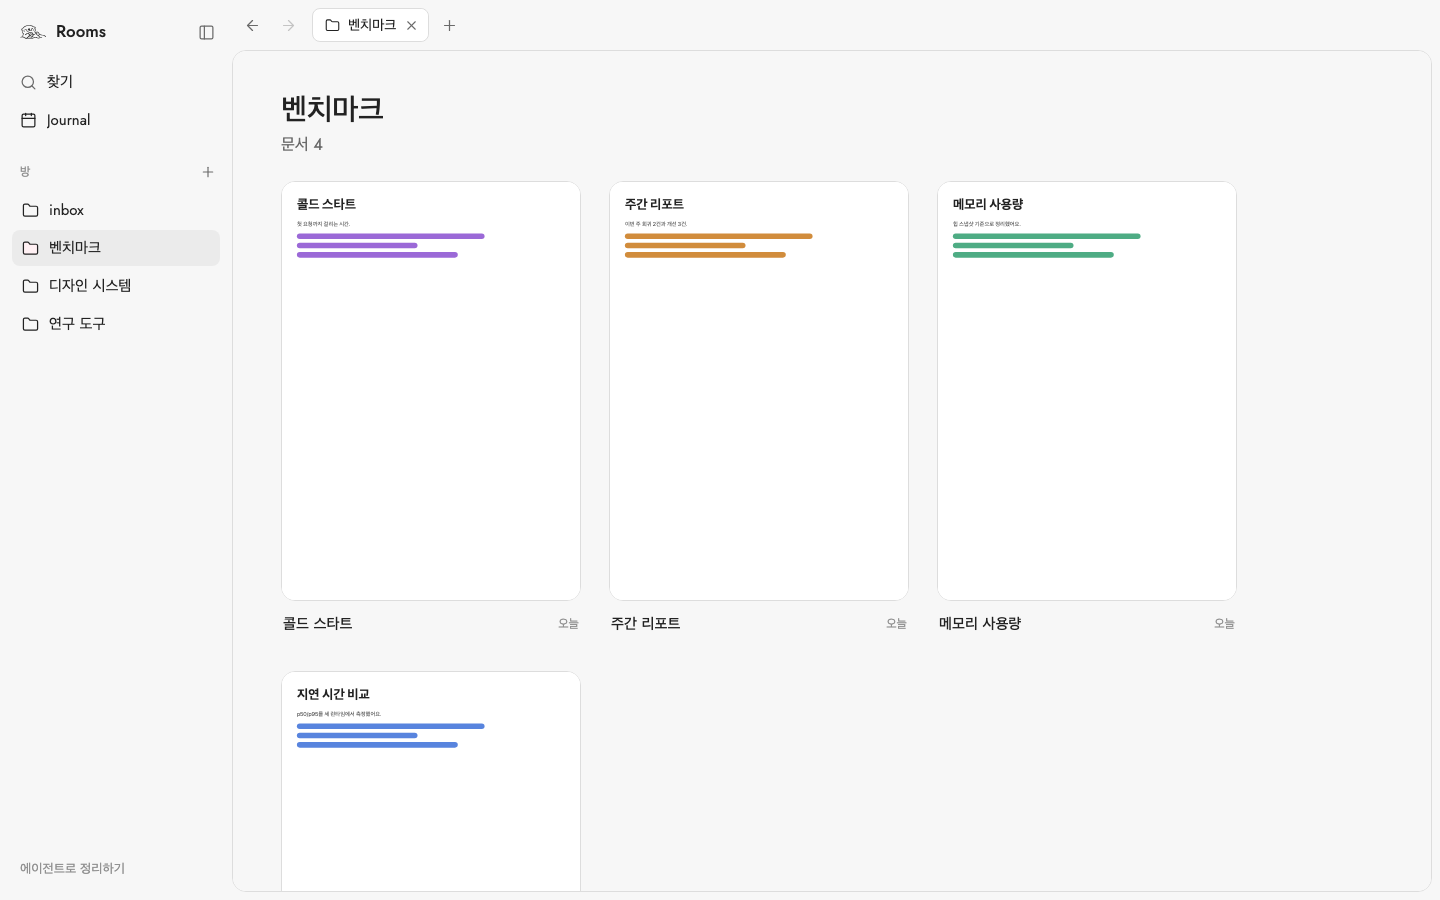
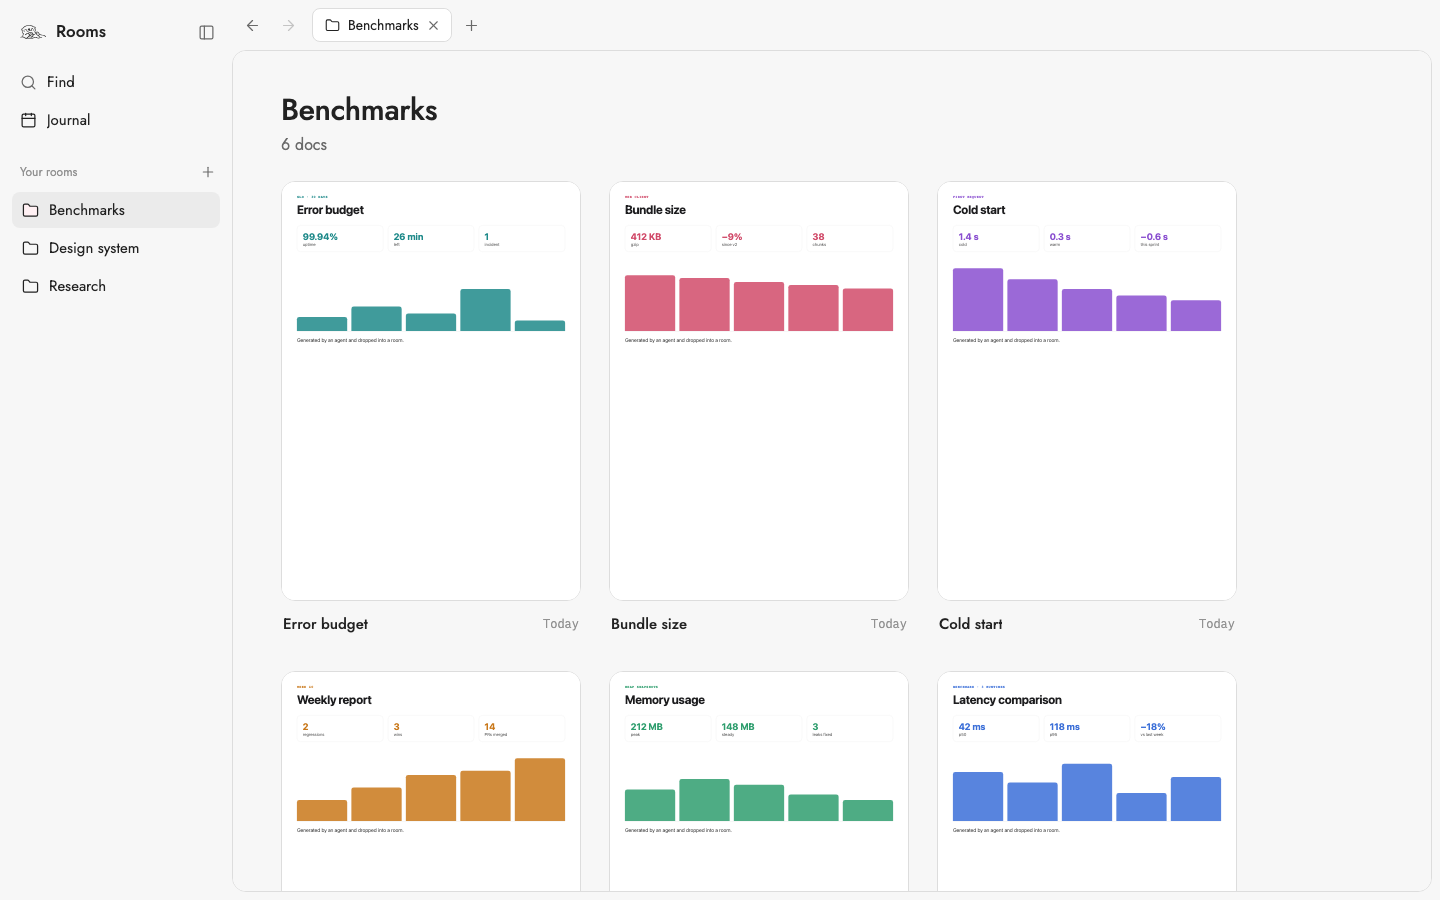
docs: English README screenshot; steadier screenshot spec
The screenshot spec now uses English rooms and report-like documents,
and waits for every preview's skeleton to disappear instead of
networkidle, which the open event stream could keep from ever firing.

diff --git a/apps/desktop/e2e/screens.spec.ts b/apps/desktop/e2e/screens.spec.ts
@@ -9,58 +9,76 @@ import { artifactHtml, expect, MOD, test, today } from "./fixtures";
 const SCREENS = path.join(import.meta.dirname, "__screens__");
 const shot = (page: Page, name: string) => page.screenshot({ path: path.join(SCREENS, `${name}.png`) });
 
-/** Moves the pointer off the cards and lets previews paint and transitions finish. */
+/** Moves the pointer off the cards and waits until every preview has loaded (no skeleton left) and faded in. */
 async function settle(page: Page) {
-  await page.mouse.move(720, 880);
-  await page.waitForLoadState("networkidle");
+  await page.mouse.move(110, 760); // an empty spot in the sidebar
+  await expect(page.getByTestId("doc-skeleton")).toHaveCount(0, { timeout: 15_000 });
   await page.waitForTimeout(500);
 }
 
+/** A report-like page (kicker, title, three stats, a bar chart), so previews look like real artifacts. */
+function reportHtml(title: string, kicker: string, accent: string, stats: [string, string][], bars: number[]): string {
+  const stat = ([v, l]: [string, string]) => `<div class="s"><b>${v}</b><span>${l}</span></div>`;
+  const bar = (h: number) => `<i style="height:${h}%"></i>`;
+  return `<!doctype html><html lang="en"><head><meta charset="utf-8"><title>${title}</title>
+<style>body{font-family:-apple-system,system-ui,sans-serif;margin:0;padding:56px 64px;color:#1d1d1f;background:#fff}
+.k{font:600 15px/1 ui-monospace,monospace;letter-spacing:.08em;text-transform:uppercase;color:${accent}}
+h1{font-size:52px;letter-spacing:-.02em;margin:18px 0 36px}.row{display:flex;gap:20px;margin-bottom:40px}
+.s{flex:1;border:1px solid #e5e5e5;border-radius:16px;padding:22px 24px}.s b{display:block;font-size:40px;color:${accent}}
+.s span{font-size:18px;color:#6a6a6a}.c{display:flex;align-items:flex-end;gap:18px;height:300px;border-bottom:2px solid #eee}
+.c i{flex:1;border-radius:10px 10px 0 0;background:${accent};opacity:.85}p{font-size:22px;line-height:1.6;color:#555}</style></head>
+<body><div class="k">${kicker}</div><h1>${title}</h1><div class="row">${stats.map(stat).join("")}</div>
+<div class="c">${bars.map(bar).join("")}</div><p>Generated by an agent and dropped into a room.</p></body></html>`;
+}
+
 test("screens for visual review", async ({ page, daemon }) => {
+  test.setTimeout(90_000); // eight live previews must load before each shot
   const date = today();
-  await daemon.createRoom("벤치마크");
-  await daemon.createRoom("디자인 시스템");
-  await daemon.createRoom("연구 도구");
-  const docs: [string, string, string][] = [
-    ["지연 시간 비교", "p50/p95를 세 런타임에서 측정했어요.", "#3b6fd8"],
-    ["메모리 사용량", "힙 스냅샷 기준으로 정리했어요.", "#2f9e6e"],
-    ["주간 리포트", "이번 주 회귀 2건과 개선 3건.", "#c9781a"],
-    ["콜드 스타트", "첫 요청까지 걸리는 시간.", "#8a4fd0"],
+  await daemon.createRoom("Benchmarks");
+  await daemon.createRoom("Design system");
+  await daemon.createRoom("Research");
+  const docs: [string, string, string, [string, string][], number[]][] = [
+    ["Latency comparison", "Benchmark · 3 runtimes", "#3b6fd8", [["42 ms", "p50"], ["118 ms", "p95"], ["−18%", "vs last week"]], [70, 55, 82, 40, 63]],
+    ["Memory usage", "Heap snapshots", "#2f9e6e", [["212 MB", "peak"], ["148 MB", "steady"], ["3", "leaks fixed"]], [45, 60, 52, 38, 30]],
+    ["Weekly report", "Week 40", "#c9781a", [["2", "regressions"], ["3", "wins"], ["14", "PRs merged"]], [30, 48, 66, 72, 90]],
+    ["Cold start", "First request", "#8a4fd0", [["1.4 s", "cold"], ["0.3 s", "warm"], ["−0.6 s", "this sprint"]], [90, 74, 60, 51, 44]],
+    ["Bundle size", "Web client", "#d14b6a", [["412 KB", "gzip"], ["−9%", "since v2"], ["38", "chunks"]], [80, 76, 70, 66, 61]],
+    ["Error budget", "SLO · 30 days", "#1f8a8a", [["99.94%", "uptime"], ["26 min", "left"], ["1", "incident"]], [20, 35, 25, 60, 15]],
   ];
-  for (const [i, [title, body, accent]] of docs.entries()) {
-    await daemon.write(`벤치마크/doc-${i + 1}.html`, artifactHtml(title, body, accent));
+  for (const [i, [title, kicker, accent, stats, bars]] of docs.entries()) {
+    await daemon.write(`Benchmarks/doc-${i + 1}.html`, reportHtml(title, kicker, accent, stats, bars));
     await new Promise((r) => setTimeout(r, 30)); // distinct createdAt, oldest first
   }
-  await daemon.write("디자인-시스템/tokens.html", artifactHtml("색 토큰", "ink, surface, thread.", "#ff385c"));
-  await daemon.write(`journal/${date}/dream.html`, artifactHtml("어젯밤 복습", "어제 세 방에서 있었던 일.", "#444"));
-  await daemon.saveNote(date, "계획", "- 할 일\n- 벤치마크 리포트 읽기\n- 디자인 토큰 정리");
-  await daemon.saveNote(date, "회고", "오늘은 리포트를 끝냈다.");
+  await daemon.write("Design-system/tokens.html", reportHtml("Color tokens", "Design system", "#ff385c", [["12", "tokens"], ["2", "themes"], ["AA", "contrast"]], [60, 40, 80]));
+  await daemon.write(`journal/${date}/dream.html`, reportHtml("Yesterday in review", "Dream", "#444444", [["3", "rooms"], ["8", "new docs"], ["2", "notes"]], [40, 70, 55]));
+  await daemon.saveNote(date, "Plan", "- Read the weekly benchmark report\n- Clean up the color tokens");
+  await daemon.saveNote(date, "Review", "Finished the latency report today.");
 
   await page.goto("/");
   const rooms = page.getByRole("list", { name: "Rooms" });
 
   // Room strip with 3+ cards.
-  await rooms.getByRole("button", { name: "벤치마크" }).click();
-  await expect(page.getByTestId("artifact-card")).toHaveCount(4);
+  await rooms.getByRole("button", { name: "Benchmarks" }).click();
+  await expect(page.getByTestId("artifact-card")).toHaveCount(6);
   await settle(page);
   await shot(page, "room-strip");
 
   // Empty room.
-  await rooms.getByRole("button", { name: "연구 도구" }).click();
+  await rooms.getByRole("button", { name: "Research" }).click();
   await expect(page.getByText("No artifacts yet")).toBeVisible();
   await settle(page);
   await shot(page, "empty-room");
 
   // Journal: dream, a room artifact, two notes.
   await page.getByRole("button", { name: "Journal", exact: true }).click();
-  await expect(page.getByRole("region", { name: "From agents" }).getByTestId("artifact-card")).toHaveCount(6);
-  await expect(page.getByRole("region", { name: "From me" }).getByRole("button", { name: "회고" })).toBeVisible();
+  await expect(page.getByRole("region", { name: "From agents" }).getByTestId("artifact-card")).toHaveCount(8);
+  await expect(page.getByRole("region", { name: "From me" }).getByRole("button", { name: "Review" })).toBeVisible();
   await settle(page);
   await shot(page, "journal");
 
   // Note tab.
-  await page.getByRole("region", { name: "From me" }).getByRole("button", { name: "계획" }).click();
-  await expect(page.getByRole("textbox", { name: "Note" })).toHaveValue(/벤치마크 리포트/);
+  await page.getByRole("region", { name: "From me" }).getByRole("button", { name: "Plan" }).click();
+  await expect(page.getByRole("textbox", { name: "Note" })).toHaveValue(/weekly benchmark report/);
   await settle(page);
   await shot(page, "note-tab");
 
@@ -71,7 +89,7 @@ test("screens for visual review", async ({ page, daemon }) => {
   await shot(page, "new-tab");
 
   // Collapsed sidebar (on a room, so the strip shows at full width).
-  await rooms.getByRole("button", { name: "벤치마크" }).click();
+  await rooms.getByRole("button", { name: "Benchmarks" }).click();
   await page.keyboard.press(`${MOD}+b`);
   await expect(page.getByRole("button", { name: "Show sidebar (⌘B)" })).toBeVisible();
   await settle(page);
@@ -84,8 +102,8 @@ test("screens for visual review", async ({ page, daemon }) => {
   await page.keyboard.press(`${MOD}+k`);
   const input = page.getByPlaceholder("Find a room or doc");
   await expect(input).toBeVisible();
-  await input.fill("리포트");
-  await expect(page.getByRole("option", { name: /주간 리포트/ })).toBeVisible();
+  await input.fill("report");
+  await expect(page.getByRole("option", { name: /Weekly report/ })).toBeVisible();
   await page.waitForTimeout(300); // dialog open animation
   await shot(page, "quickfind");
 });

diff --git a/README.md b/README.md
@@ -19,6 +19,7 @@ Agents like Claude Code and Codex write specs, reports, and reviews as HTML. The
 - Any `.html` file in a room shows up in the app within two seconds.
 - To add a file without moving it, put a symlink to it in a room.
 - You can also link an existing folder as a room. Rooms never writes into it.
+- Drag rooms in the sidebar to reorder them.
 - **Journal** shows everything created on a given day, plus your own notes for that day.
 
 Rooms does not run agents or call any AI model. It only reads folders.
